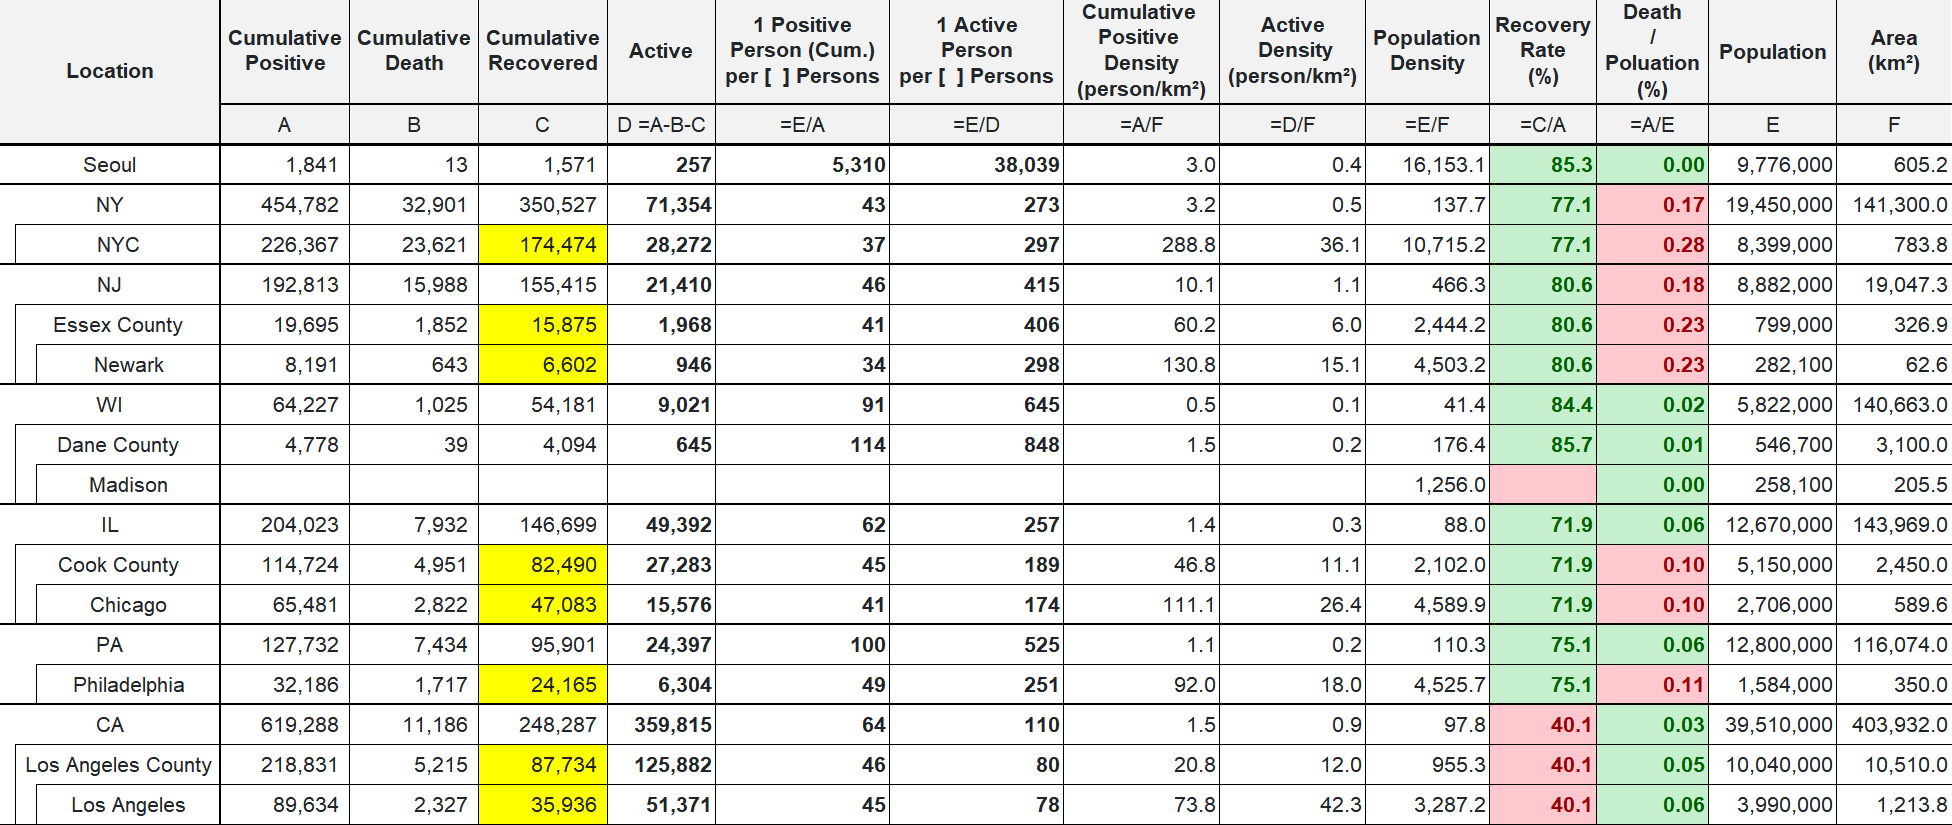
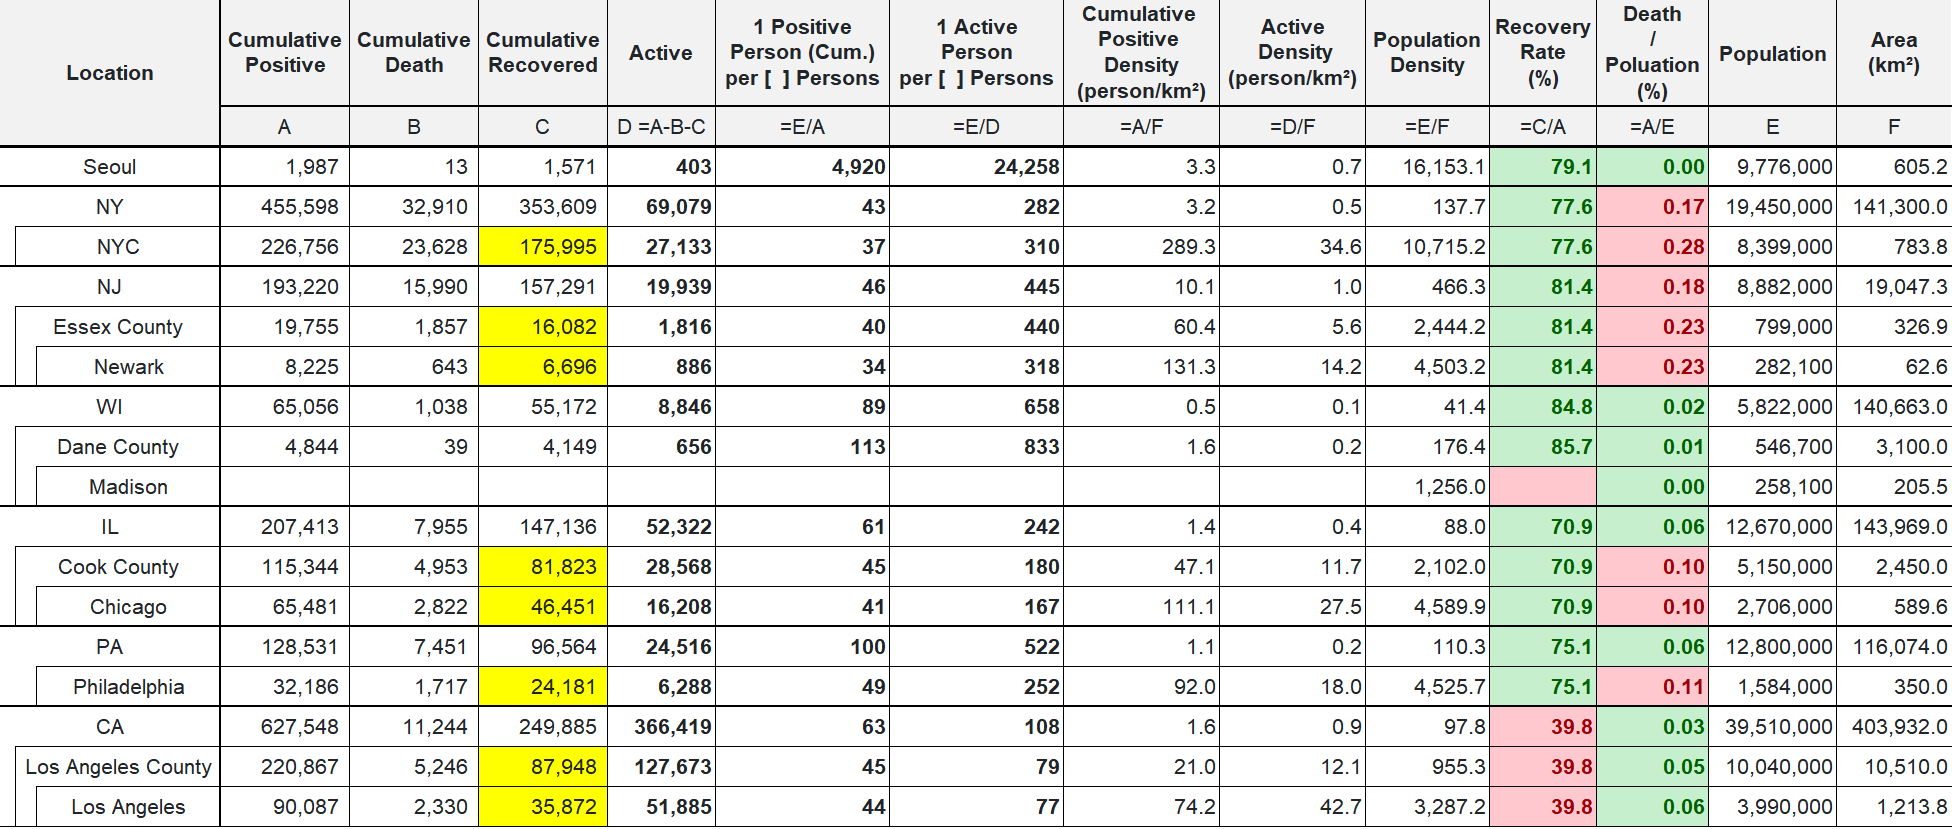
update 8/16 status

diff --git a/index.html b/index.html
@@ -19,7 +19,7 @@
 
 <body class="container-fluid">
 	<h1> CoronaV for Friends</h1>
-	<h2> Data updated at Aug 15 2020 EST 19:15</h2>
+	<h2> Data updated at Aug 16 2020 EST 20:05</h2>
 	<hr>
 	<main>
 		<div class="row">
